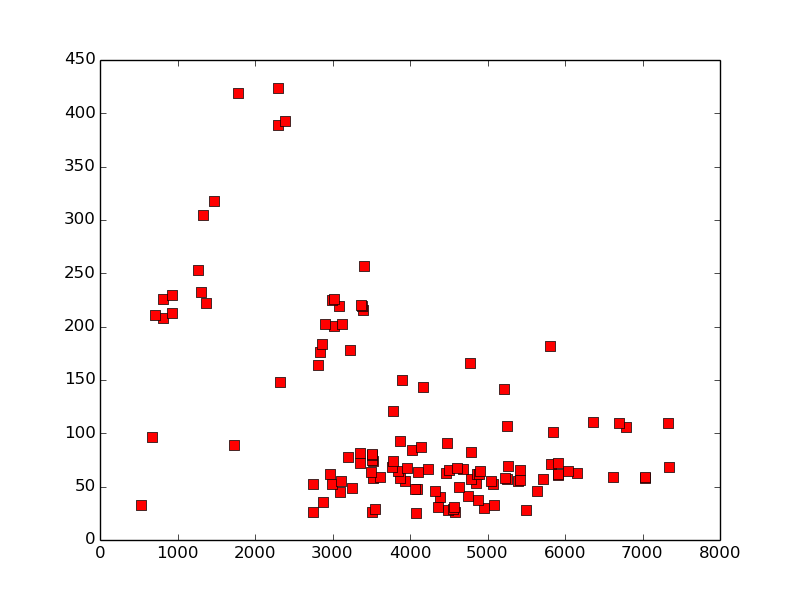
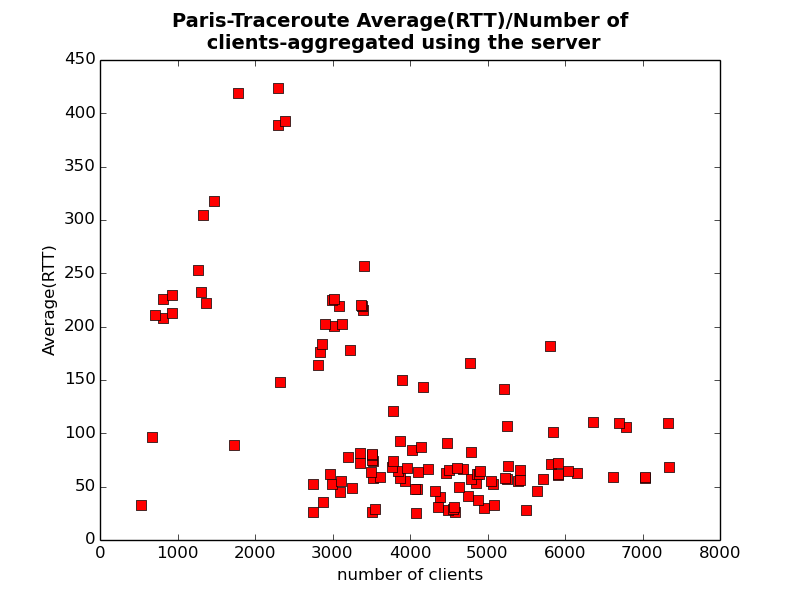
modified some graphs

Changed region(s): [[0.2188, 0.0, 0.7812, 0.09], [0.4375, 0.93, 0.5938, 0.99], [0.0312, 0.42, 0.0938, 0.6]]

diff --git a/bg.py b/bg.py
@@ -7,6 +7,7 @@ import tempfile
 import time
 import matplotlib.pyplot as pyplot
 from matplotlib.lines import Line2D
+import matplotlib.dates as mdates
 import datetime
 
 # query1 struct:
@@ -25,7 +26,7 @@ def bigquery(query):
 	if query is None:
 		os.system("""echo "None" > %s """ % tmpname)
 	else:
-		cmd = "bq -q --format=csv query --max_rows=500 \"%s\" > %s" % (query, tmpname)
+		cmd = "bq -q --format=csv query --max_rows=10000 \"%s\" > %s" % (query, tmpname)
 		print >>l, cmd
 		l.write(cmd+"\n")
 		l.flush()
@@ -109,11 +110,15 @@ def main(argv):
 		x1 = [val for val in server_list]
 		y1 = [val for val in throughput_by_clients]
 		fig = pyplot.figure()
+		fig.suptitle('Upload throughput for US servers - first 100 results', fontsize=14, fontweight='bold')
 		graph = fig.add_subplot(111)
+
+		graph.set_xlabel('indexes of the first 100 US servers')
+		graph.set_ylabel('upload throughput for each server')
 
 		#graph.plot(my_xticks, y1, 'r-o')
 		graph.plot(my_xticks, y1, linestyle='None', marker=styles[0], color='g', markersize=7)
-		graph.set_xticks(my_xticks)
+		#graph.set_xticks(my_xticks)
 		pyplot.savefig('query1.png')
 
 	elif query_no == 2: 
@@ -135,14 +140,30 @@ def main(argv):
 		y = [val for val in throughput_list]
 
 		fig = pyplot.figure()
+		fig.suptitle('Upload throughput over the last 6 months of 2012', fontsize=14, fontweight='bold')
 		graph = fig.add_subplot(111)
 
-		#graph.plot(x, y, 'r-o')
+		graph.set_xlabel('months')
+		graph.set_ylabel('upload throughput')
+
+		months = mdates.MonthLocator() #every month
+		monthsFmt = mdates.DateFormatter('%m')
+
+		#dates = []
+
+		#for i, date in enumerate(date_list):
+		#	dates.append(datetime.datetime.fromtimestamp(int(date)))
+
+		#print dates
+
+		#datemin = datetime.date(dates[0].month, 1, 1)
+		#datemax = datetime.date(dates[len(date_list) - 1].month + 1, 1, 1)
+		#graph.set_xlim(datemin, datemax)
+
+		#graph.xaxis.set_major_locator(months)
+		#graph.xaxis.set_major_formatter(monthsFmt)
+
 		graph.plot(x, y, linestyle='None', marker=styles[1], color='b', markersize=7)
-		#graph.set_xticks(x)
-		#graph.set_xticklabels(
-		#	[datetime.datetime.fromtimestamp(int(date)).strftime('%Y-%m-%d') for date in date_list]
-		#	)
 
 		pyplot.savefig('query2.png')
 	elif query_no == 3: #will run this one with a limit of 100 rows
@@ -160,7 +181,11 @@ def main(argv):
 		y = [val for val in rtt_val]
 
 		fig = pyplot.figure()
+		fig.suptitle('Paris-Traceroute Average(RTT)/Number of\n clients-aggregated using the server', fontsize=14, fontweight='bold')
 		graph = fig.add_subplot(111)
+
+		graph.set_xlabel('number of clients')
+		graph.set_ylabel('Average(RTT)')
 
 		graph.plot(x, y, linestyle='None', marker=styles[1], color='r', markersize=7)
 		pyplot.savefig('query3.png')
